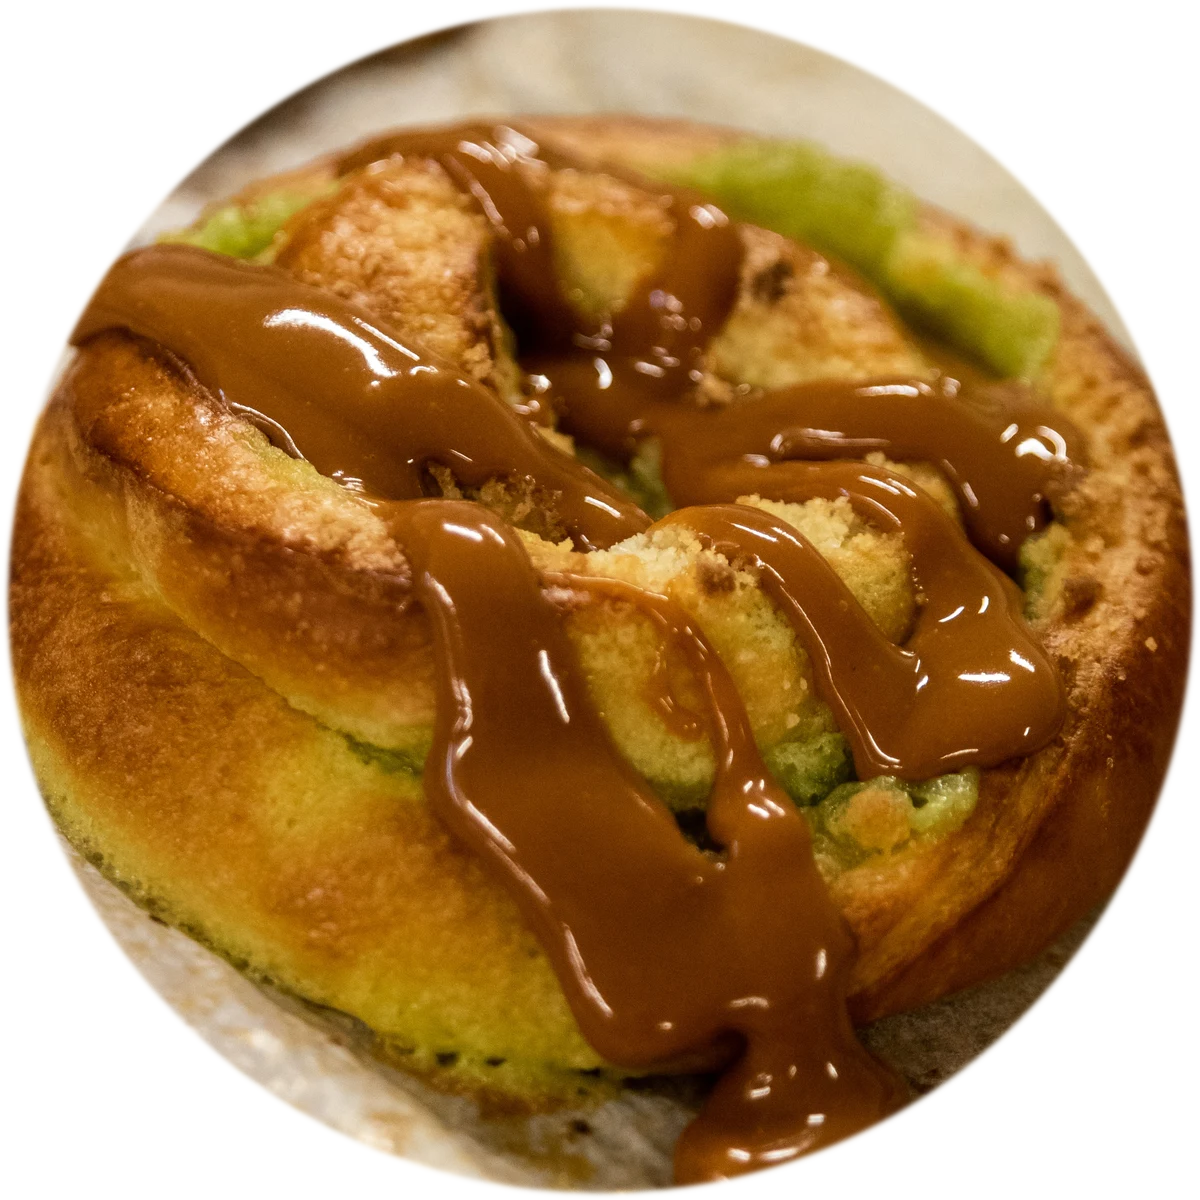
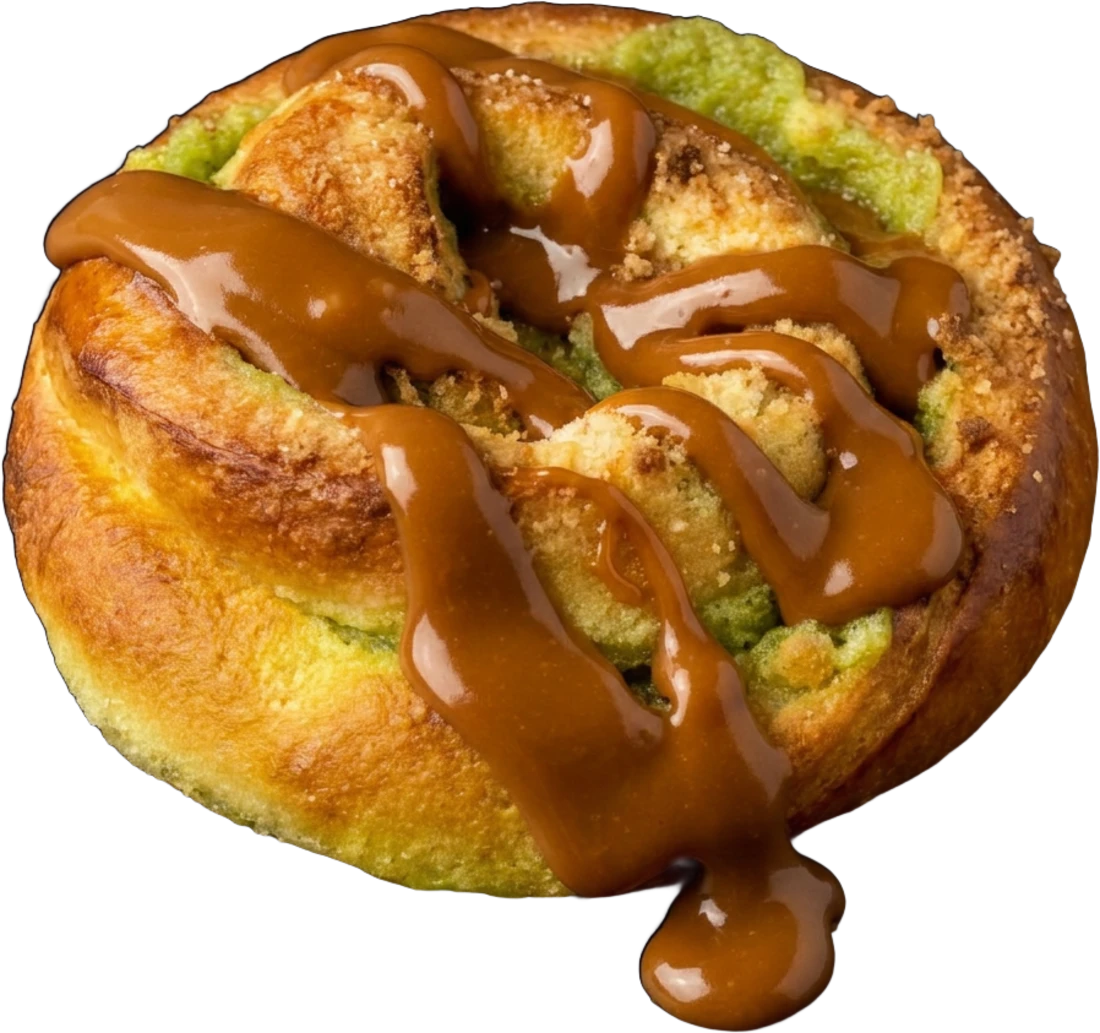
Reynir is a commissioned build now: real bun, real reviews, no disclaimer
Reynir bakarí have hired us to finish this and put it on their own domain, so
everything on the page is published on their behalf and has to be true.

- The hero bun is a proper transparent cutout again, not a photo in a circle.
  It is generated, and that is deliberate and documented: their own photograph
  of this bun sits on baking parchment within a hair of the crust's tone, so
  no threshold separates them — every cutout attempt ate the crust. It was
  generated FROM that photograph as reference, matching the spiral, the
  pistachio-green marzipan and the caramel drizzle. Everything else on the
  site is their own photography.
- The reveal observer now re-runs when CMS content lands. It only ran on
  mount, and swapping the bundled photos for the Sanity ones REPLACES every
  gallery tile (the React key is the image src) — those new nodes were never
  observed, so the whole gallery sat at opacity:0 on the live site.
- Six real, attributed reviews instead of two, rotating. Rating corrected to
  4,5 from 65 Google reviews, read off their live listing today.
- "Prices as listed on aha.is" is gone from both places. That was sourcing
  language for a speculative prototype; on their own site it reads as though
  the bakery does not know its own prices.
- The prototype disclaimer footer is removed from both Reynir routes. It
  stated that all text, prices and reviews are samples, which is now false.
[…]

diff --git a/src/preview/reynir/data.ts b/src/preview/reynir/data.ts
@@ -6,13 +6,20 @@
  * brief — same design + colours, re-skinned with Reynir's own logo, facts and
  * voice. Family craft bakery in Kópavogur, Dalvegur 4.
  *
- * HONESTY GUARDRAILS (prototype disclaimed in PreviewFooter):
+ * ⚠ THIS IS NOW A COMMISSIONED BUILD, NOT A SPECULATIVE PROTOTYPE.
+ * Reynir bakarí hired us (confirmed 2026-08-16) to finish this and put it on
+ * their own domain. Everything below is therefore published on their behalf and
+ * must be true. See reynir-golive.md for the pre-launch checklist and the facts
+ * that still need the owner's sign-off.
+ *
+ * SOURCING:
  *   - LOGO is their real script wordmark (from reynirbakari.is), recoloured to
  *     the shared gold so it reads on the dark ground; shape unchanged.
- *   - HERO image is their real B&W "hands shaping dough" photo from their own
- *     site, warm-toned to fit the palette. No invented photography.
- *   - PRICES are REAL, from their aha.is delivery menu (aha.is/veitingar/
- *     reynir-bakari, fetched Jul 2026). Their own site publishes no price list.
+ *   - PHOTOGRAPHY is their own professional shoot (Aug 2020), which Sindri paid
+ *     for. The one exception is the turning hero bun — see FEATURE_IMG.
+ *   - PRICES came from their aha.is delivery menu (fetched Jul 2026).
+ *     ⚠ MUST be re-confirmed with the owner before launch: a delivery-platform
+ *     price is not necessarily their counter price, and it is over a year old.
  *   - HOURS = 07–17 EVERY DAY, confirmed directly by the owner (Þorleifur,
  *     2026-08-16). Supersedes the Mon–Sat 06–17 / Sun 07–17 published on their
  *     own (stale) Wix site.
@@ -24,9 +31,16 @@
  *     passed 2019; sons Þorleifur Karl + Henry Þór took over; ~20 staff; all
  *     baked on-site from scratch) are from their About page (reynirbakari.is/
  *     um-okkur) + kopavogsbladid.is (2016).
- *   - REVIEW quote + ratings (Google 4,5 / 63; Facebook 92% recommend) are
- *     real (RestaurantGuru / Facebook). Only one quotable review existed; not
- *     padded with invented ones.
+ *   - REVIEWS are real and attributed; see the block above REVIEWS.
+ *     Rating shown as 4,5 from 65 Google reviews, read off their live Google
+ *     listing 2026-08-16.
+ *
+ * KNOWN CONFLICT TO RESOLVE WITH THE OWNER BEFORE LAUNCH:
+ *   Þorleifur said "07 til 17 alla daga". Their own Wolt listing (updated Nov
+ *   2025) says weekdays 07–17 but SATURDAY AND SUNDAY 08–17, and the older
+ *   directories (finna.is, 1819.is) still say 06:00. We publish what the owner
+ *   said, but a wrong weekend opening time on their own site sends people to a
+ *   locked door, so it needs one confirming sentence from him.
  */
 
 export type Lang = 'en' | 'is'
@@ -40,12 +54,17 @@ const gal = (n: string) => `${import.meta.env.BASE_URL}reynir/gallery/gal-${n}.w
 const galSm = (n: string) => `${import.meta.env.BASE_URL}reynir/gallery/gal-${n}-sm.webp`
 /** Real B&W "hands shaping dough" photo from their own site, warm-toned. */
 export const HERO_IMG = `${import.meta.env.BASE_URL}reynir/hero-dough.jpg`
-/** THE pistachio snúður, from Reynir's own 2020 shoot, masked to a circle so
- *  the medallion can turn without revealing a rectangle behind it. A true
- *  cutout was attempted and abandoned: the bun's pale crust and the baking
- *  parchment sit too close in tone, so every threshold that removed the paper
- *  also ate the crust. The circle keeps a sliver of parchment, which reads as
- *  paper rather than as an error. */
+/** The turning pistachio snúður: a TRANSPARENT cutout so the ink ground shows
+ *  through and nothing frames it.
+ *
+ *  This one frame is generated rather than photographed, and deliberately so.
+ *  Their own photograph of this bun (2020 shoot, frame 002) sits on baking
+ *  parchment whose tone is within a hair of the bun's pale crust, so no
+ *  threshold can separate them — every attempt that removed the paper also ate
+ *  the crust. It was generated FROM that photograph as the reference, matching
+ *  its spiral, its pistachio-green marzipan and its caramel drizzle, so the
+ *  shape on the page is their product. Everything else on the site is their
+ *  own photography. */
 export const FEATURE_IMG = `${import.meta.env.BASE_URL}reynir/pistasiusnudur.webp`
 /** The same bun wider, keeping the caramel running off the edge — the framed
  *  product shot in the featured slot. */
@@ -91,22 +110,47 @@ export interface Review {
   who: string
 }
 
-/** Real, sourced reviews only (per the honesty guardrail above) — currently just
- *  the two that exist with quotable text: the Google review already on aha.is/
- *  RestaurantGuru, and one Facebook recommendation (visible logged-out on their
- *  page, 15 Jul 2020). RestaurantGuru's other two reviews are star-ratings only,
- *  no text. Not padded to a "nicer" number. */
+/** Real, attributed reviews. Each one below was found published with its
+ *  author's name against this bakery — the Facebook recommendation on their own
+ *  page, and Google reviews as syndicated to the public listing mirrors.
+ *  Nothing here is written by us and nothing is paraphrased; the Icelandic and
+ *  English columns are the same review, translated only where the original was
+ *  in the other language.
+ *
+ *  ⚠ BEFORE GO-LIVE: have Þorleifur confirm he is happy to feature these
+ *  specific named customers. Republishing a review is normal, but on his own
+ *  commissioned site it should be his call, and he may prefer favourites of his
+ *  own. They are all editable in the CMS under "Umsagnir". */
 export const REVIEWS: Review[] = [
-  {
-    quote: { en: 'Great pistachio Danish.', is: 'Frábær pistasíusnúður.' },
-    who: 'gj Anderson, Google',
-  },
   {
     quote: {
       en: 'I wear glasses every day and absolutely hate it, but popping into Reynir Bakari for one of their “gleruauga” always makes my day better. Thanks!',
       is: 'Ég nota gleraugu á hverjum degi og gjörsamlega hata það, en að hoppa inn hjá Reyni Bakara og kaupa mér eitt „gleruauga“ hjá þeim gerir daginn minn alltaf betri. Takk fyrir mig!',
     },
     who: 'Hrafn Sigurðarson, Facebook',
+  },
+  {
+    quote: { en: 'Best bread in town. Love the normalbrauð.', is: 'Besta brauðið í bænum. Elska normalbrauðið.' },
+    who: 'Viktoria Gísladóttir, Google',
+  },
+  {
+    quote: { en: 'A good spirit about the place, and good service.', is: 'Góður andi og góð þjónusta.' },
+    who: 'Birna Steingrímsdóttir, Google',
+  },
+  {
+    quote: {
+      en: 'An authentic bakery, where you meet the Icelandic craftsman and the regulars enjoying a coffee with the local paper and a bit of gossip.',
+      is: 'Ósvikið bakarí, þar sem þú hittir íslenska handverksmanninn og fastagestina sem njóta kaffisins með blaðinu og spjalli dagsins.',
+    },
+    who: 'Anders B. Jensen, Google',
+  },
+  {
+    quote: { en: 'A nice, cosy café and bakery that opens early in the morning.', is: 'Notalegt kaffihús og bakarí sem opnar snemma á morgnana.' },
+    who: 'Michael Smiyun, Google',
+  },
+  {
+    quote: { en: 'Great pistachio Danish.', is: 'Frábær pistasíusnúður.' },
+    who: 'gj Anderson, Google',
   },
 ]
 
@@ -249,12 +293,12 @@ export const T = {
     heroPhotoCaption: 'Shaping the day, Reynir bakari',
     menuMasthead: 'The menu',
     ovenTitle: 'From the oven',
-    ovenIntro: 'Baked fresh through the morning. Prices as listed on aha.is.',
+    ovenIntro: 'Baked fresh through the morning, every morning.',
     featuredLabel: 'The house favourite',
     breadKicker: 'Baked from scratch',
     breadTitle: 'The bread.',
     breadIntro: 'Sourdough and traditional Icelandic loaves, many of them sugar-free and made with Icelandic rapeseed oil.',
-    breadNote: 'Prices as listed on aha.is.',
+    breadNote: 'Sugar-free and baked with Icelandic rapeseed oil.',
     galleryKicker: 'Behind the counter',
     galleryTitle: 'In the bakery.',
     galleryIntro: 'Sourdough on the bench and the ovens already running before the doors open. A look at the everyday craft, in photos.',
@@ -273,7 +317,7 @@ export const T = {
     cateringBody:
       'Celebration cakes in cream, marzipan and chocolate, plus full catering for parties and events. Tell us the occasion and we will quote it.',
     cateringCta: 'Send an enquiry',
-    trustLine: '4.5 on Google across 63 reviews. 92% recommend on Facebook (21 reviews).',
+    trustLine: '4.5 on Google across 65 reviews, and 92% recommend us on Facebook.',
     visitKicker: 'Open every day',
     visitTitle: 'Find us',
     mainLabel: 'Bakery and café',
@@ -301,12 +345,12 @@ export const T = {
     heroPhotoCaption: 'Deigið mótað, Reynir bakari',
     menuMasthead: 'Matseðillinn',
     ovenTitle: 'Úr ofninum',
-    ovenIntro: 'Bakað ferskt yfir morguninn. Verð eins og þau birtast á aha.is.',
+    ovenIntro: 'Bakað ferskt á hverjum morgni.',
     featuredLabel: 'Uppáhald hússins',
     breadKicker: 'Bakað frá grunni',
     breadTitle: 'Brauðin.',
     breadIntro: 'Súrdeigsbrauð og hefðbundin íslensk brauð, mörg sykurlaus og bökuð með íslenskri repjuolíu.',
-    breadNote: 'Verð eins og þau birtast á aha.is.',
+    breadNote: 'Sykurlaus og bökuð með íslenskri repjuolíu.',
     galleryKicker: 'Bakvið borðið',
     galleryTitle: 'Í bakaríinu.',
     galleryIntro: 'Súrdeigið á borðinu og ofnarnir komnir í gang áður en opnað er. Innsýn í daglegt handverk, í myndum.',
@@ -325,7 +369,7 @@ export const T = {
     cateringBody:
       'Rjóma, marsípan og súkkulaðitertur fyrir stóru stundirnar, ásamt veisluþjónustu fyrir hvers kyns viðburði. Segið okkur frá tilefninu og við gerum tilboð.',
     cateringCta: 'Senda fyrirspurn',
-    trustLine: '4,5 á Google úr 63 umsögnum. 92% mæla með á Facebook (21 umsögn).',
+    trustLine: '4,5 á Google úr 65 umsögnum, og 92% mæla með okkur á Facebook.',
     visitKicker: 'Opið alla daga',
     visitTitle: 'Finndu okkur',
     mainLabel: 'Bakarí og kaffihús',

diff --git a/src/preview/reynir/Page.tsx b/src/preview/reynir/Page.tsx
@@ -19,7 +19,6 @@
 import { useEffect, useMemo, useRef, useState, type CSSProperties } from 'react'
 import { Link } from 'react-router-dom'
 import { PreviewChrome } from '../PreviewChrome'
-import { PreviewFooter } from '../PreviewFooter'
 import { getPreviewCompany } from '../companies'
 import { setThemeColor } from '../../lib/preview'
 import { T, type Lang, type MenuItem, type GalleryPhoto, type Review, LOGO, FEATURE_IMG, PRODUCT_IMG, SHOP_IMG } from './data'
@@ -56,13 +55,11 @@ const PAGE_CSS = `
   @keyframes rb-marquee { from { transform:translateX(0); } to { transform:translateX(-50%); } }
   .rb-marquee-track { display:flex; width:max-content; animation:rb-marquee 36s linear infinite; }
 
-  /* the hero pistachio turns slowly and smoothly, in place. It is a real
-     photograph masked to a circle rather than a cutout, so it carries a gold
-     hairline and a soft drop to read as a struck medallion rather than as a
-     photo that happens to be round. */
+  /* the hero pistachio turns slowly and smoothly, in place — a true cutout on
+     transparency, so the ground shows through and nothing frames it. */
   @keyframes rb-hero-spin { to { transform:rotate(360deg); } }
   .rb-hero-spin { animation:rb-hero-spin 44s linear infinite; will-change:transform; transform-origin:50% 50%;
-    border-radius:50%; box-shadow:0 0 0 1px rgba(238,211,170,.34), 0 34px 70px -22px rgba(0,0,0,.85); }
+    filter:drop-shadow(0 30px 45px rgba(0,0,0,.6)); }
 
   /* ── intro loader: the gold script writes itself on, as if piped ──────────── */
   .rb-intro { position:fixed; inset:0; z-index:9999; background:${INK};
@@ -414,7 +411,12 @@ function ReynirPageInner() {
       window.clearTimeout(timeoutId)
       document.removeEventListener('visibilitychange', onVisible)
     }
-  }, [reduced, lang])
+    // Re-run when the CMS content lands. The page first renders the bundled
+    // photos, then swaps in the Sanity ones — which REPLACES every gallery
+    // tile with a new element (the React key is the image src). Those new
+    // nodes were never observed, so without this dependency they keep the
+    // opacity:0 that revealInit gave them and the whole gallery stays blank.
+  }, [reduced, lang, GALLERY])
 
   const marqueeItems = useMemo(
     () => ['Vínarbrauð', 'Súrdeigsbrauð', 'Snúður', 'Kanillengja', 'Pistasíusnúður', 'Kleina', 'Rúgbrauð', 'Skúffukaka'],
@@ -717,16 +719,42 @@ function ReynirPageInner() {
       <section id="visit" style={{ background: INK, padding: sectionPad }}>
         <div style={wrap}>
           <div className="rb-visit-grid" style={{ display: 'grid', gridTemplateColumns: '1fr 1fr', gap: 'clamp(32px,5vw,80px)', alignItems: 'start' }}>
+            {/* Left: everything you need in words. Right: the place itself.
+                One location means the old two-address split left this whole
+                column empty, so the practical detail is gathered here and the
+                photograph and map carry the other side. */}
             <div data-reveal style={revealInit(reduced)}>
               <div style={{ fontSize: 12, fontWeight: 700, letterSpacing: '.24em', textTransform: 'uppercase', color: GOLD, borderTop: `1px solid ${HAIR}`, paddingTop: 16 }}>{t.visitKicker}</div>
               <h2 style={{ fontFamily: DISPLAY, fontWeight: 400, fontSize: 'clamp(38px,5vw,72px)', lineHeight: 1.02, margin: '18px 0 0', ...GOLD_TEXT }}>{t.visitTitle}</h2>
-              <a href={LINKS.order} target="_blank" rel="noreferrer" className="rb-cta rb-cta-gold" style={{ marginTop: 'clamp(24px,4vh,36px)' }}>{t.orderPrimary}</a>
-              <p style={{ fontSize: 14.5, color: DIM, margin: '18px 0 0', lineHeight: 1.6, maxWidth: '34ch' }}>{t.deliveryNote}</p>
 
-              {/* The room itself, above the map: their own wall of framed
-                  black-and-white bakery photographs and the tables you can
-                  sit at. A map says where; this says what it is like. */}
-              <figure style={{ margin: 'clamp(24px,3.5vh,32px) 0 0', borderRadius: 4, overflow: 'hidden', border: `1px solid ${HAIR}` }}>
+              <div style={{ fontFamily: DISPLAY, fontSize: 'clamp(22px,2.4vw,28px)', color: IVORY, marginTop: 'clamp(20px,3vh,28px)' }}>{mainName}</div>
+
+              <div style={{ marginTop: 18, display: 'grid', gap: 12, maxWidth: 420 }}>
+                {hoursRows[lang].map((l) => (
+                  <div key={l.label} style={{ display: 'flex', justifyContent: 'space-between', gap: 16, borderBottom: `1px solid ${HAIR_SOFT}`, paddingBottom: 10, fontSize: 14.5, color: DIM }}>
+                    <span>{l.label}</span>
+                    <span style={{ color: IVORY }}>{l.value}</span>
+                  </div>
+                ))}
+                <div style={{ display: 'flex', justifyContent: 'space-between', gap: 16, borderBottom: `1px solid ${HAIR_SOFT}`, paddingBottom: 10 }}>
+                  <span style={{ fontSize: 14.5, color: DIM }}>{t.rowPhone}</span>
+                  <a href={`tel:${LINKS.phone}`} className="rb-foot-link" style={{ fontSize: 14.5, fontWeight: 600 }}>{LINKS.phoneLabel}</a>
+                </div>
+                <div style={{ display: 'flex', justifyContent: 'space-between', gap: 16 }}>
+                  <span style={{ fontSize: 14.5, color: DIM }}>{t.rowEmail}</span>
+                  <a href={`mailto:${LINKS.email}`} className="rb-foot-link" style={{ fontSize: 14.5, fontWeight: 600, wordBreak: 'break-all' }}>{LINKS.email}</a>
+                </div>
+              </div>
+
+              <a href={LINKS.order} target="_blank" rel="noreferrer" className="rb-cta rb-cta-gold" style={{ marginTop: 'clamp(26px,4vh,36px)' }}>{t.orderPrimary}</a>
+              <p style={{ fontSize: 14.5, color: DIM, margin: '18px 0 0', lineHeight: 1.6, maxWidth: '34ch' }}>{t.deliveryNote}</p>
+            </div>
+
+            <div data-reveal style={{ ...revealInit(reduced, 0.1) }}>
+              {/* The room itself: their own wall of framed black-and-white
+                  bakery photographs and the tables you can sit at. A map says
+                  where it is; this says what it is like. */}
+              <figure style={{ margin: 0, borderRadius: 4, overflow: 'hidden', border: `1px solid ${HAIR}` }}>
                 <img
                   src={SHOP_IMG}
                   alt={lang === 'en' ? 'Inside Reynir bakari on Dalvegur: a wall of framed black-and-white bakery photographs above the tables' : 'Inni í Reyni bakara á Dalvegi: veggur með innrömmuðum svarthvítum myndum úr bakaríinu fyrir ofan borðin'}
@@ -738,36 +766,12 @@ function ReynirPageInner() {
                 />
               </figure>
 
-              {/* the map fills this column's dead space, opposite the addresses */}
               <MapCard
                 lang={lang}
                 locations={[
                   { label: t.mainLabel, address: mainName, query: 'Reynir bakari, Dalvegur 4, 201 Kópavogur' },
                 ]}
               />
-            </div>
-
-            <div data-reveal style={{ ...revealInit(reduced, 0.1), display: 'grid', gap: 26 }}>
-              <div>
-                <div style={{ fontSize: 12, fontWeight: 700, letterSpacing: '.14em', textTransform: 'uppercase', color: GOLD }}>{t.mainLabel}</div>
-                <div style={{ fontFamily: DISPLAY, fontSize: 'clamp(22px,2.4vw,28px)', color: IVORY, marginTop: 8 }}>{mainName}</div>
-                <div style={{ marginTop: 16, display: 'grid', gap: 12 }}>
-                  {hoursRows[lang].map((l) => (
-                    <div key={l.label} style={{ display: 'flex', justifyContent: 'space-between', gap: 16, borderBottom: `1px solid ${HAIR_SOFT}`, paddingBottom: 10, fontSize: 14.5, color: DIM }}>
-                      <span>{l.label}</span>
-                      <span style={{ color: IVORY }}>{l.value}</span>
-                    </div>
-                  ))}
-                  <div style={{ display: 'flex', justifyContent: 'space-between', gap: 16, borderBottom: `1px solid ${HAIR_SOFT}`, paddingBottom: 10 }}>
-                    <span style={{ fontSize: 14.5, color: DIM }}>{t.rowPhone}</span>
-                    <a href={`tel:${LINKS.phone}`} className="rb-foot-link" style={{ fontSize: 14.5, fontWeight: 600 }}>{LINKS.phoneLabel}</a>
-                  </div>
-                  <div style={{ display: 'flex', justifyContent: 'space-between', gap: 16 }}>
-                    <span style={{ fontSize: 14.5, color: DIM }}>{t.rowEmail}</span>
-                    <a href={`mailto:${LINKS.email}`} className="rb-foot-link" style={{ fontSize: 14.5, fontWeight: 600, wordBreak: 'break-all' }}>{LINKS.email}</a>
-                  </div>
-                </div>
-              </div>
             </div>
           </div>
         </div>
@@ -820,7 +824,6 @@ function ReynirPageInner() {
       )}
 
       <PreviewChrome company={company} />
-      <PreviewFooter company={company} />
     </div>
   )
 }

diff --git a/src/preview/reynir/OrderPage.tsx b/src/preview/reynir/OrderPage.tsx
@@ -14,7 +14,6 @@
 import { useEffect } from 'react'
 import { Link, useSearchParams } from 'react-router-dom'
 import { PreviewChrome } from '../PreviewChrome'
-import { PreviewFooter } from '../PreviewFooter'
 import { getPreviewCompany } from '../companies'
 import { setThemeColor } from '../../lib/preview'
 import { LOGO, T } from './data'
@@ -126,7 +125,6 @@ function ReynirOrderPageInner() {
       </footer>
 
       <PreviewChrome company={company} />
-      <PreviewFooter company={company} />
     </div>
   )
 }
